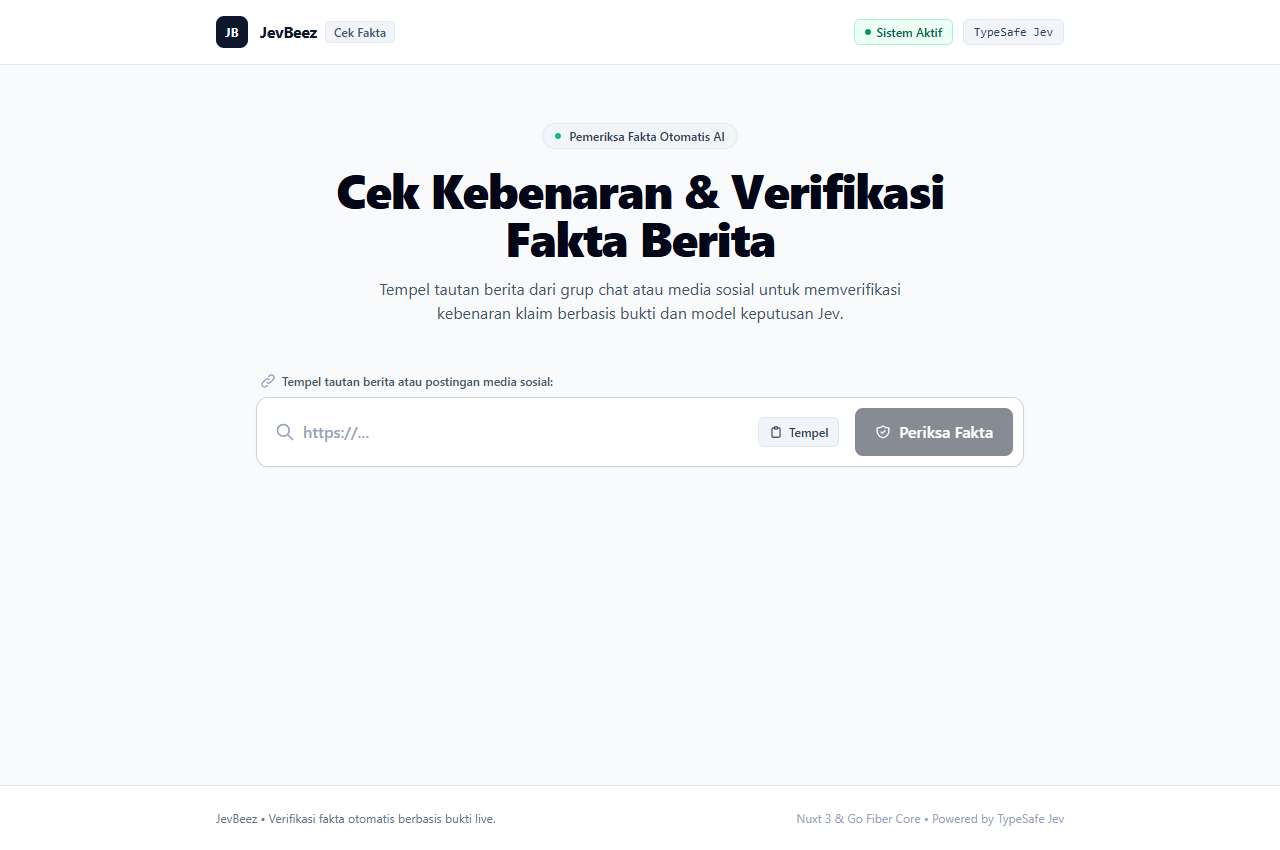
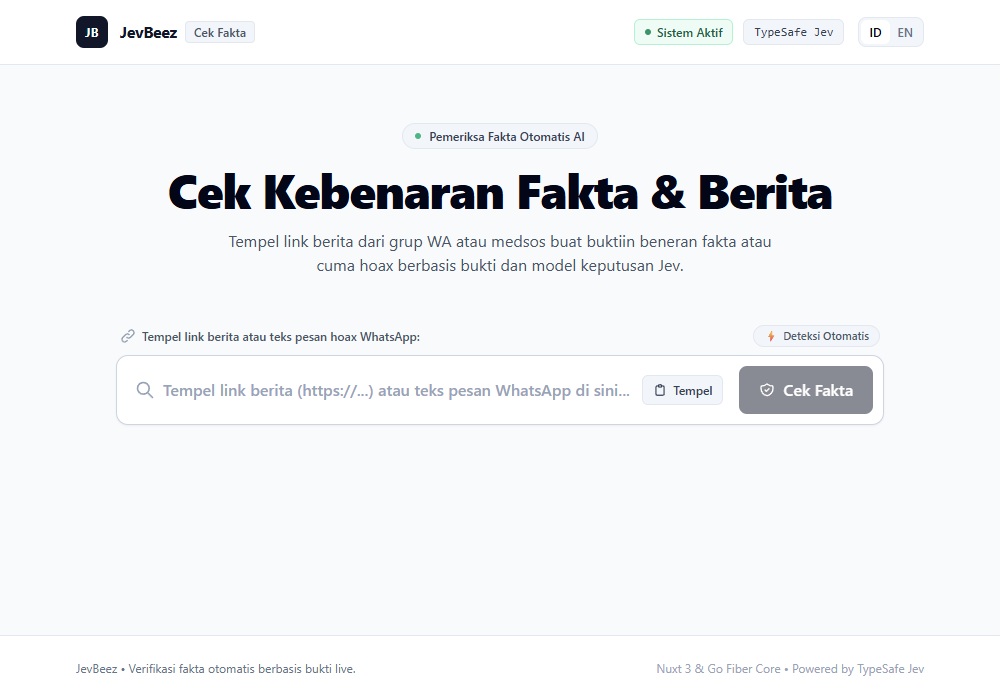
docs: add smart input text screenshot and update UI showcase in README

diff --git a/README.md b/README.md
@@ -21,12 +21,17 @@
 ## 📸 User Interface
 
 ### 1. Smart Fact-Check & Threat Intelligence Workbench
-Modern editorial interface featuring zero-friction smart input detection (auto-switches between URL link and raw WhatsApp broadcast message), live character counters, and real-time reasoning progress stepper:
+Modern editorial interface featuring zero-friction smart input detection (auto-switches between URL link and raw WhatsApp broadcast message) with live system status indicator:
 
 ![JevBeez Workbench](docs/screenshots/hero.png)
 
-### 2. Analysis Dossier & Multi-Source Evidence Grounding
-Displays transparent verification verdicts, calibrated confidence scores, probabilistic decision vectors, cited web sources, instant 1-click WhatsApp debunk generator, and downloadable client-side evidence card:
+### 2. Auto-Detect WhatsApp Broadcast Text Mode
+Pasting raw hoax messages automatically toggles text mode, enforces character limits (up to 1,000 runes), and prepares the broadcast claim for RE2 linear-time sanitization:
+
+![JevBeez WhatsApp Text Mode](docs/screenshots/smart-input-text.png)
+
+### 3. Analysis Dossier & Multi-Source Evidence Grounding
+Displays transparent verification verdicts, calibrated confidence scores, probabilistic decision vectors (TypeSafe Jev), cited web sources, instant 1-click WhatsApp debunk generator, and downloadable client-side evidence card:
 
 ![JevBeez Verdict Dossier](docs/screenshots/verdict-analysis.png)
 
